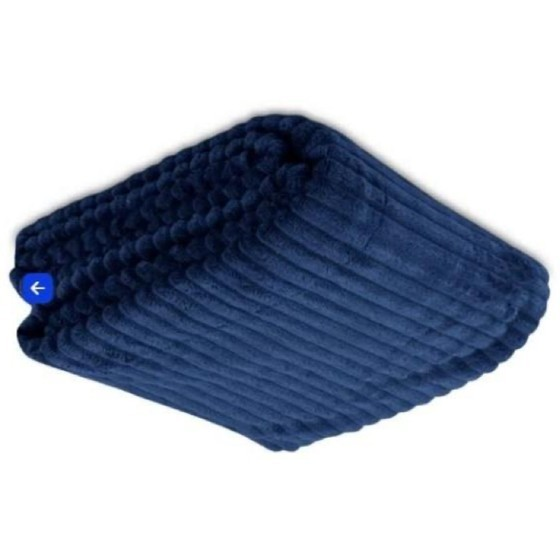
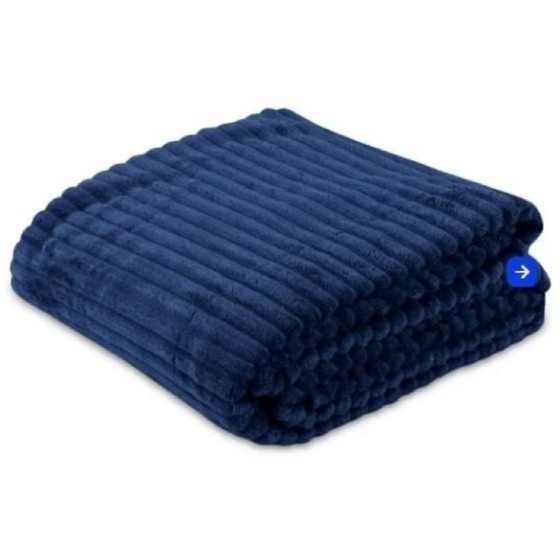
Corrige orientação do cobertor Montreal e do jogo de assadeiras.

diff --git a/loja.html b/loja.html
@@ -1402,7 +1402,7 @@ QNL 06 Chácara 18 - Taguatinga, Brasília - DF</a></p>
 
 			function loadShop() {
 				return Promise.all([
-					fetch('items.json?v=10').then(function (response) {
+					fetch('items.json?v=11').then(function (response) {
 						if (!response.ok) {
 							throw new Error('items');
 						}

diff --git a/media/jp/jp-admin.js b/media/jp/jp-admin.js
@@ -103,7 +103,7 @@
   }
 
   function fetchCatalogItems() {
-    return fetch('/items.json?v=10')
+    return fetch('/items.json?v=11')
       .then(function (response) {
         return response.json().then(function (data) {
           if (!response.ok) {
